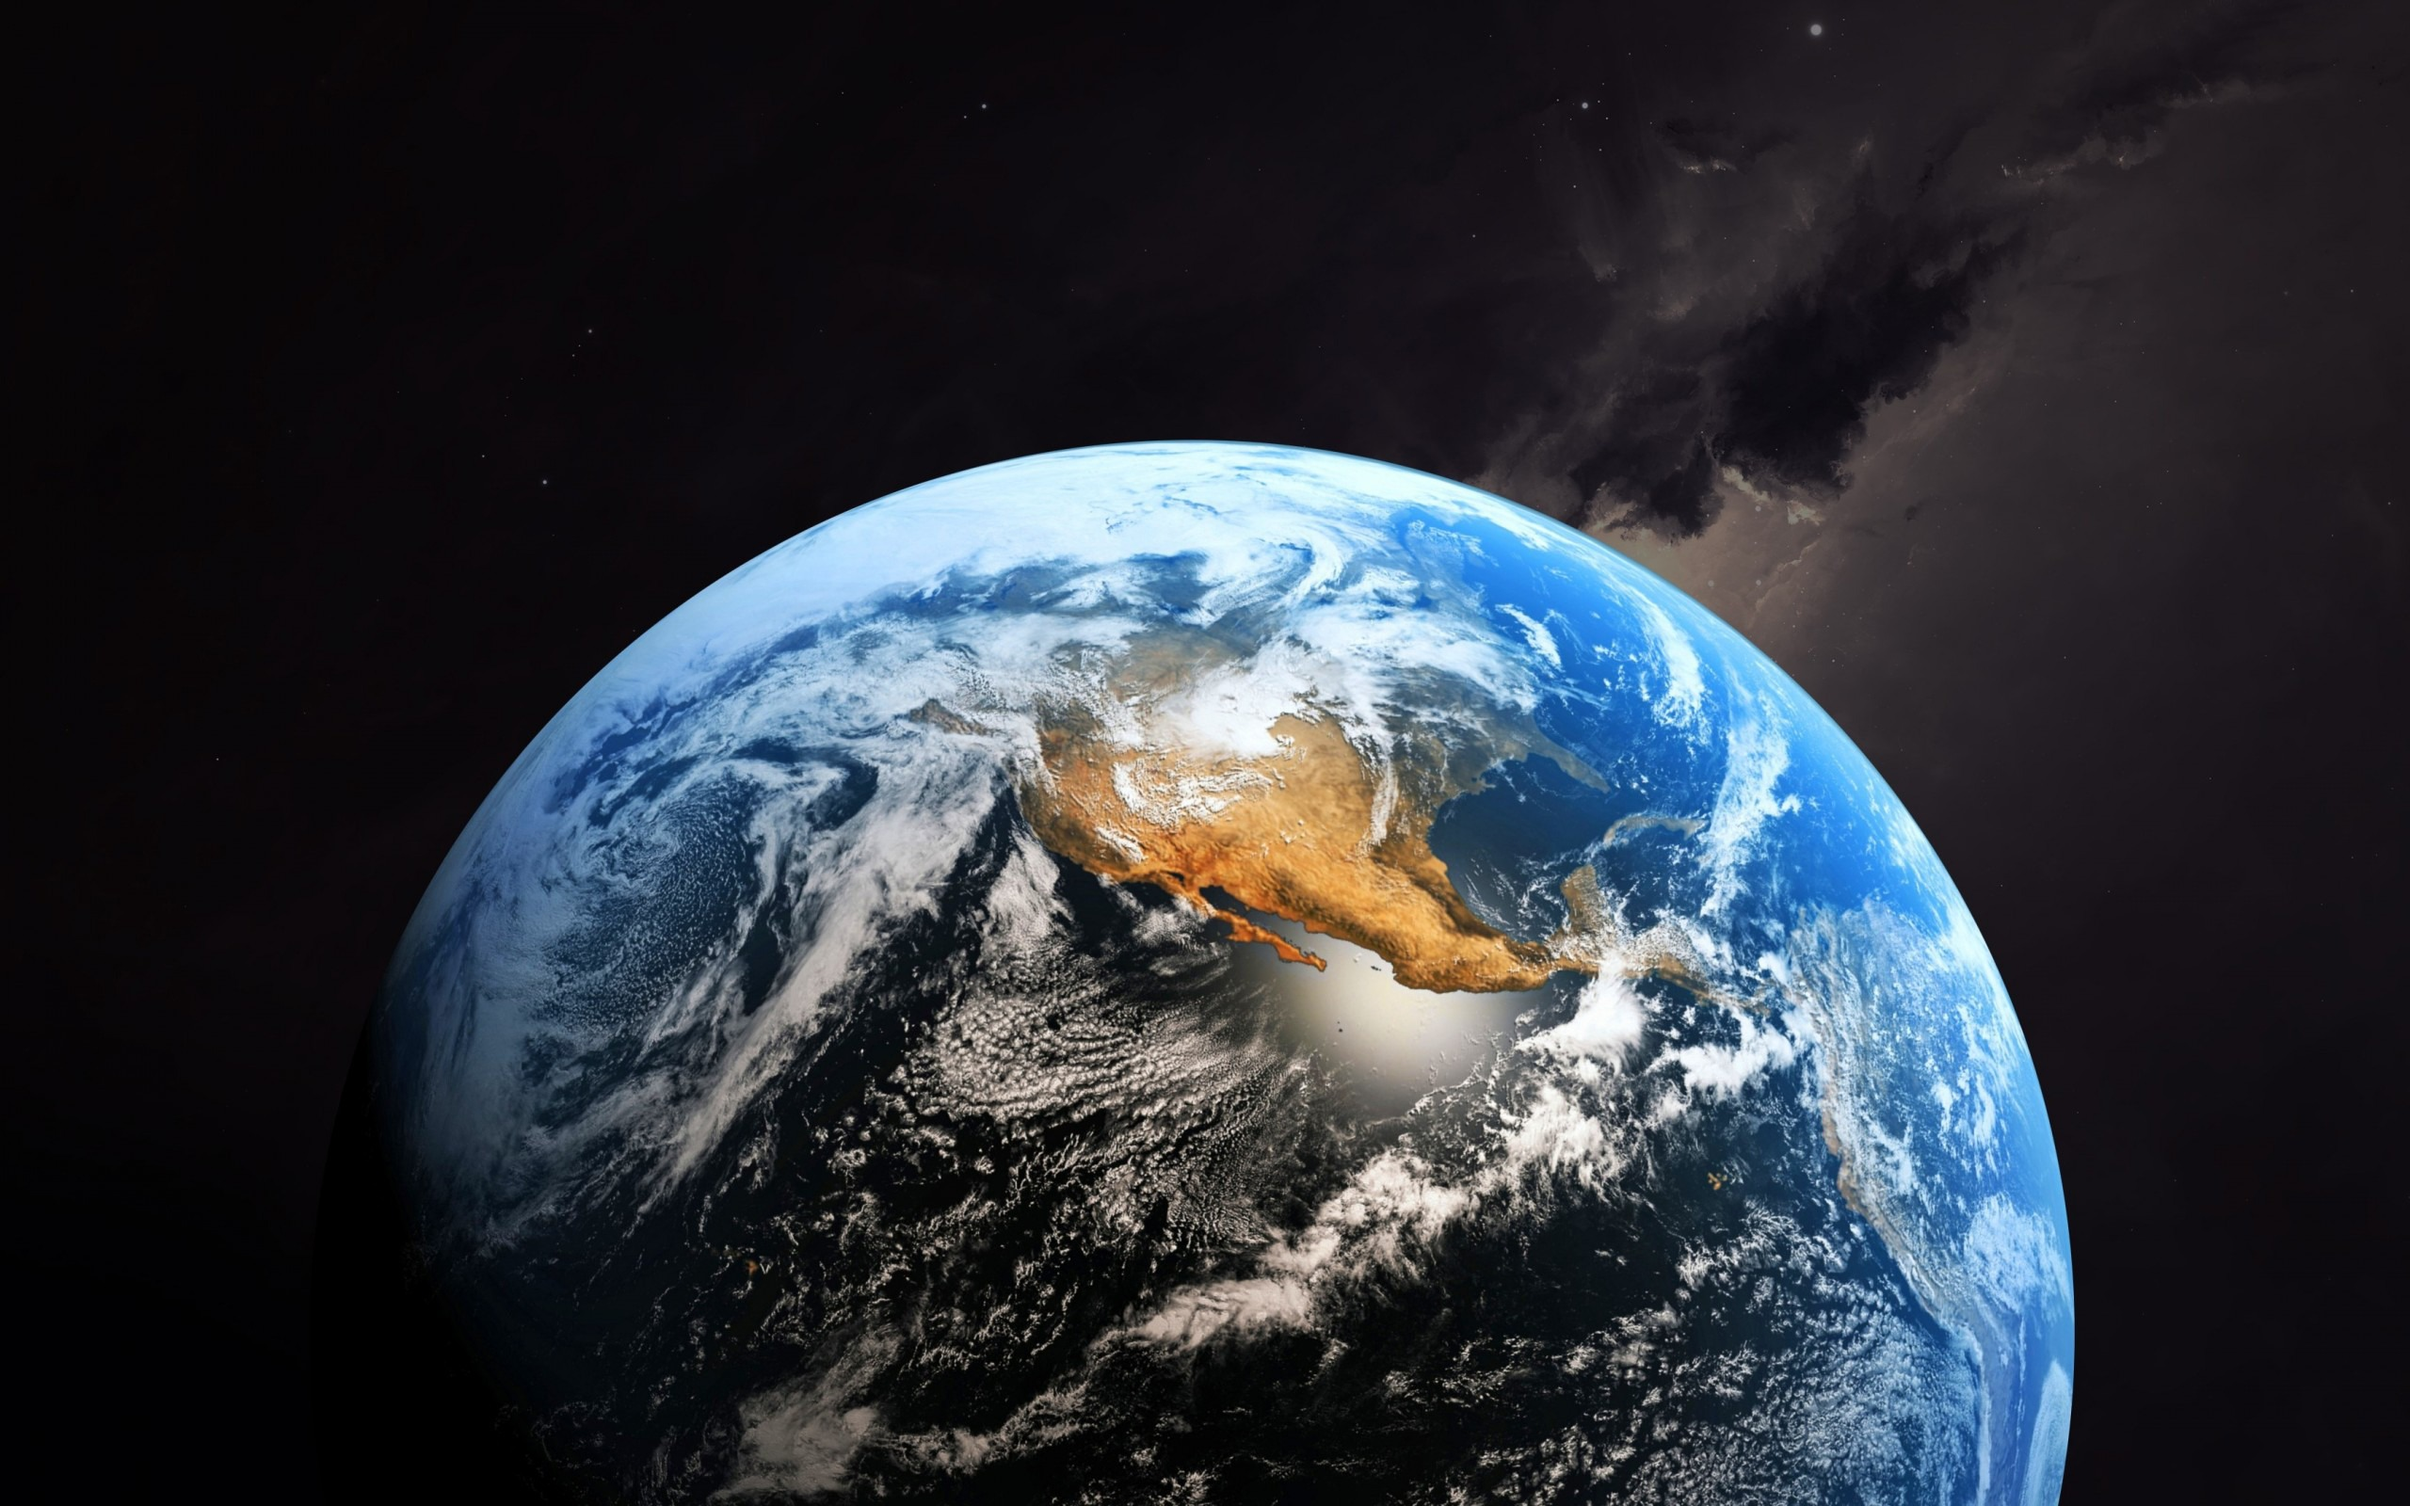
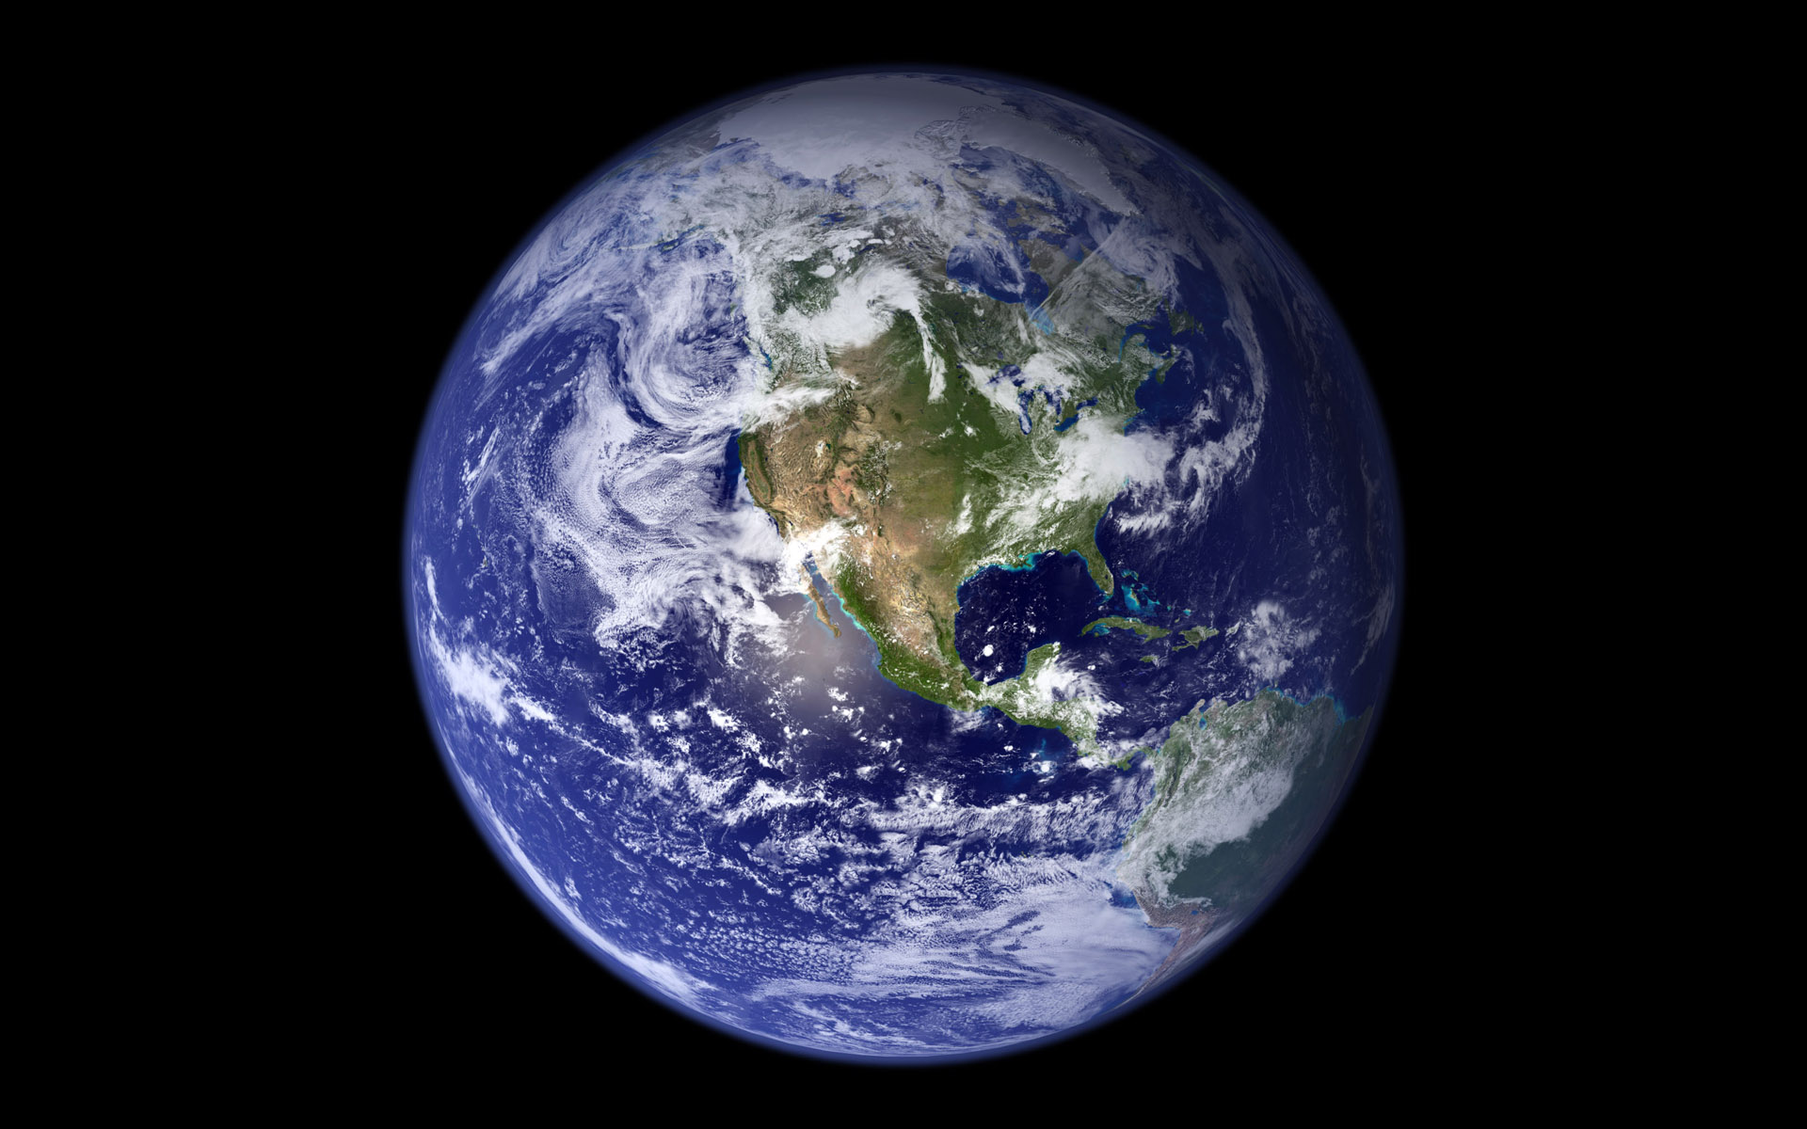
updated

diff --git a/index.html b/index.html
@@ -14,7 +14,7 @@
 
     <main>
         <section>
-            <h1 id="img01" class="imagem">Bem-Vindo</h1>
+            <h1 id="img01" class="imagem">Bem-vindo</h1>
             <h2>O Sistema Solar</h2>
             <p>O Sistema Solar compreende o conjunto constituído pelo Sol e todos os corpos celestes que estão sob seu domínio gravitacional. A estrela central, maior componente do sistema, respondendo por mais de 99,85% da massa total, gera sua energia através da fusão de hidrogênio em hélio, dois de seus principais constituintes. 
 
@@ -30,6 +30,26 @@
             <h3 id="img02" class="imagem"><span>Mercúrio</span></h3>
             <p>Mercúrio é o menor e mais interno planeta do Sistema Solar, orbitando o Sol a cada 87,969 dias terrestres. A sua órbita tem a maior excentricidade e o seu eixo apresenta a menor inclinação em relação ao plano da órbita dentre todos os planetas do Sistema Solar. Mercúrio completa três rotações em torno de seu eixo a cada duas órbitas. O periélio da órbita de Mercúrio apresenta uma precessão de 5 600 segundos de arco por século, um fenômeno completamente explicado apenas a partir do século XX pela Teoria da Relatividade Geral formulada por Albert Einstein. A sua aparência é brilhante quando observado da Terra, tendo uma magnitude aparente que varia de -2,6 a 5,7, embora não seja facilmente observado pois sua separação angular do Sol é de apenas 28,3º. Uma vez que Mercúrio normalmente se perde no intenso brilho solar, exceto em eclipses solares, só pode ser observado a olho nu durante o crepúsculo matutino ou vespertino.</p>
 
+            <h3 id="img04" class="imagem"><span>Vênus</span></h3>
+            <p>Vénus (português europeu) ou Vênus (português brasileiro) (AO 1990: Vénus ou Vênus) é o segundo planeta do Sistema Solar em ordem de distância a partir do Sol, orbitando-o a cada 224,7 dias. Recebeu seu nome em homenagem à deusa romana do amor e da beleza Vénus, equivalente a Afrodite. Depois da Lua, é o objeto mais brilhante do céu noturno, atingindo uma magnitude aparente de -4,6, o suficiente para produzir sombras. A distância média da Terra a Vênus é de 0,28 AU, sendo esta a menor distância entre qualquer par de planetas. Como Vénus se encontra mais próximo do Sol do que a Terra, ele pode ser visto aproximadamente na mesma direção do Sol (sua maior elongação é de 47,8°). Vénus atinge seu brilho máximo algumas horas antes da alvorada ou depois do ocaso, sendo por isso conhecido como a estrela da manhã (Estrela-d'Alva) ou estrela da tarde (Vésper); também é chamado Estrela do Pastor.</p>
+
+            <h3 id="img05" class="imagem"><span>Terra</span></h3>
+            <p>A Terra é o terceiro planeta mais próximo do Sol, o mais denso e o quinto maior dos oito planetas do Sistema Solar. É também o maior dos quatro planetas telúricos. É por vezes designada como Mundo ou Planeta Azul. Lar de milhões de espécies de seres vivos, incluindo os humanos, a Terra é o único corpo celeste onde é conhecida a existência de vida. O planeta formou-se há 4,56 bilhões de anos, e a vida surgiu na sua superfície um bilhão de anos depois. Desde então, a biosfera terrestre alterou significativamente a atmosfera e outros fatores abióticos do planeta, permitindo a proliferação de organismos aeróbicos, bem como a formação de uma camada de ozônio, a qual, em conjunto com o campo magnético terrestre, bloqueia radiação solar prejudicial, permitindo a vida no planeta. As propriedades físicas do planeta, bem como sua história geológica e órbita, permitiram que a vida persistisse durante este período. Acredita-se que a Terra poderá suportar vida durante pelo menos outros 500 milhões de anos.</p>
+
+            <h3 id="img06" class="imagem"><span>Marte</span></h3>
+            <p>Marte é o quarto planeta a partir do Sol, o segundo menor do Sistema Solar. Batizado em homenagem ao deus romano da guerra, muitas vezes é descrito como o "Planeta Vermelho", porque o óxido de ferro predominante em sua superfície lhe dá uma aparência avermelhada. Marte é um planeta rochoso com uma atmosfera fina, com características de superfície que lembram tanto as crateras de impacto da Lua quanto vulcões, vales, desertos e calotas polares da Terra. O período de rotação e os ciclos sazonais de Marte são também semelhantes aos da Terra, assim como é a inclinação que produz as suas estações do ano. Marte é o lar do Monte Olimpo, a segunda montanha mais alta conhecida no Sistema Solar (a mais alta em um planeta), e do Valles Marineris, um desfiladeiro gigantesco. A suave Bacia Polar Norte, no hemisfério norte marciano, cobre cerca de 40% do planeta e pode ser uma enorme marca de impacto. Marte tem duas luas conhecidas, Fobos e Deimos, que são pequenas e de forma irregular. Estas luas podem ser asteroides capturados, semelhante ao 5261 Eureka, um asteroide troiano marciano.</p>
+
+            <h3 id="img07" class="imagem"><span>Júpiter</span></h3>
+            <p>Júpiter é o maior planeta do Sistema Solar, tanto em diâmetro quanto em massa, e é o quinto mais próximo do Sol. Possui menos de um milésimo da massa solar, contudo tem 2,5 vezes a massa de todos os outros planetas em conjunto. É um planeta gasoso, junto com Saturno, Urano e Netuno. Estes quatro planetas são por vezes chamados de planetas jupiterianos ou planetas jovianos, e são os quatro gigantes gasosos, isto é, que não são compostos primariamente de matéria sólida.</p>
+
+            <h3 id="img08" class="imagem"><span>Saturno</span></h3>
+            <p>Saturno é o sexto planeta a partir do Sol e o segundo maior do Sistema Solar atrás de Júpiter. Pertencente ao grupo dos gigantes gasosos, possui cerca de 95 massas terrestres e orbita a uma distância média de 9,5 unidades astronômicas. Possui um pequeno núcleo rochoso, circundado por uma espessa camada de hidrogênio metálico e hélio. A sua atmosfera, também composta principalmente de hidrogênio, apresenta faixas com fortes ventos, cuja energia provém tanto do calor recebido do Sol quanto da energia irradiada de seu centro. Entretanto, estas bandas possuem aspecto pouco proeminente, com coloração que varia do marrom ao amarelado, devido à espessa névoa que envolve o planeta, além das camadas de nuvens. Sazonalmente surgem grandes sistemas de tempestades, além de vórtices permanentes existentes nos polos.</p>
+
+            <h3 id="img09" class="imagem"><span>Urano</span></h3>
+            <p>Urano (Úrano em Portugal) é o sétimo planeta a partir do Sol, o terceiro maior e o quarto mais massivo dos oito planetas do Sistema Solar. Foi nomeado em homenagem ao deus grego do céu, Urano. Embora seja visível a olho nu em boas condições de visualização, não foi reconhecido pelos astrônomos antigos como um planeta devido a seu pequeno brilho e lenta órbita William Herschel anunciou sua descoberta em 13 de março de 1781, expandindo as fronteiras do Sistema Solar pela primeira vez na história moderna. Urano foi também o primeiro planeta a ser descoberto por meio de um telescópio.</p>
+
+            <h3 id="img10" class="imagem"><span>Netuno</span></h3>
+            <p>Netuno (pt-BR) ou Neptuno (pt) (AO 1990: Netuno ou Neptuno) é o oitavo planeta do Sistema Solar, o último a partir do Sol desde a reclassificação de Plutão para a categoria de planeta anão, em 2006. Pertencente ao grupo dos gigantes gasosos, possui um tamanho ligeiramente menor que o de Urano, mas maior massa, equivalente a 17 massas terrestres. Netuno orbita o Sol a uma distância média de 30,1 unidades astronômicas.</p>
         </section>
     </main>
 

diff --git a/style.css b/style.css
@@ -23,7 +23,7 @@ header h1 {
 }
 
 section {
-    background-color: #9BF2EA;
+    background-color: #def7ff;
 }
 
 section h1 {
@@ -34,9 +34,18 @@ section h1 {
     font-size: 3em;
 }
 
+section p {
+    padding: 10px;
+    text-align: justify;
+    font-size: 1.1em;
+    line-height: 1.6;
+}
+
 h2 {
     text-align: center;
     padding-top: 10px;
+    font-size: 2em;
+    text-shadow: 2px 2px 2px rgba(0, 0, 0, 0.300);
 }
 
 h3 {
@@ -52,13 +61,6 @@ span {
     border: 5px solid white;
 }
 
-main p {
-    padding: 10px;
-    text-align: justify;
-    font-size: 1.1em;
-    line-height: 1.6;
-}
-
 .imagem {
     background-size: cover;
     background-repeat: no-repeat;
@@ -67,7 +69,7 @@ main p {
 }
 
 #img01 {
-    background-image: url('imagens/terra.jpg');
+    background-image: url('imagens/terra02.jpg');
 }
 
 #img02 {
@@ -76,6 +78,34 @@ main p {
 
 #img03 {
     background-image: url('imagens/sol.jpg');
+}
+
+#img04 {
+    background-image: url('imagens/venus.jpg');
+}
+
+#img05 {
+    background-image: url('imagens/terra.jpg');
+}
+
+#img06 {
+    background-image: url('imagens/marte.jpg');
+}
+
+#img07 {
+    background-image: url('imagens/jupiter.webp');
+}
+
+#img08 {
+    background-image: url('imagens/saturno.jpg');
+}
+
+#img09 {
+    background-image: url('imagens/urano.jpg');
+}
+
+#img10 {
+    background-image: url('imagens/netuno.jpg');
 }
 
 img {
